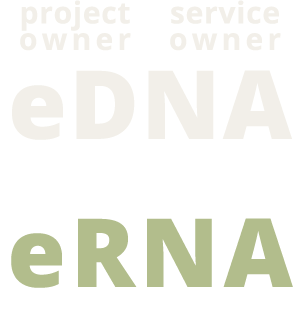
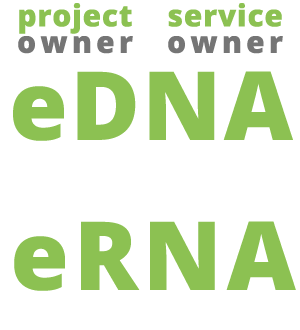
added green project service DNA RNA

diff --git a/src/app/welcome/welcome.component.html b/src/app/welcome/welcome.component.html
@@ -4,8 +4,7 @@
 
   <div class="mission">
     <h4 id="leaders">
- algorithmic innovators engine G8
-<!--      t e a m &nbsp; p r i o r i t i e s &nbsp; 2 4 / 7 -->
+ algorithmic innovators engine <span style="font-size: 20px;">G8</span>
     </h4>
   </div>
 
@@ -333,8 +332,11 @@
         
           <div style="text-align: right"><b>service: {{srv_state}} / {{srv}}</b>
             <br><b>s: {{s}}</b></div>
-        
-        
+
+        </div>
+
+        <div id="terms-dna">
+          <img id="owners-dna" src="/assets/img/project-service-owners-dna-330.png">
         </div>
 
         <div id="pairing" fxLayout="row" fxLayoutGap="0px" fxLayoutAlign="center center">
@@ -457,7 +459,7 @@
         </div>
 
         <div id="project-service-container" fxLayout="row" fxLayoutGap="0px" 
-        style="width: 300px; height: 300px; position: relative; top: -330px;">
+        style="width: 300px; height: 300px; position: relative; top: -664px;">
 
           <div id="projects-container">
 
@@ -832,7 +834,7 @@
   <div class="welcome" fxLayout="column" fxLayout.gt-md="row" fxLayoutGap.gt-md="30px" fxLayoutAlign="center center">
     <section>
       <h3>how it works</h3>
-      <p contenteditable="true">1. post product ideas.</p>
+      <p contenteditable="true">1. post project todos.</p>
       <p contenteditable="true">2. build web services.</p>
       <p contenteditable="true">3. match winner teams.</p>
     </section>

diff --git a/src/app/welcome/welcome.component.css b/src/app/welcome/welcome.component.css
@@ -207,6 +207,8 @@ a.ppt-links {
 #pairing {
     width: 300px;
     height: 330px;
+    top: -334px;
+    position: relative;
 }
 
 
@@ -618,7 +620,7 @@ p {
     text-align: center;
     margin: 0px;
     position: relative;
-    top: -305px;
+    top: -638px;
 }
 
 .welcome {

diff --git a/src/app/navigation/header/header.component.css b/src/app/navigation/header/header.component.css
@@ -1,5 +1,5 @@
 .dev {
-    color: #fee94e;
+    color: #8cc152;
     font-style: italic;
 }
 
